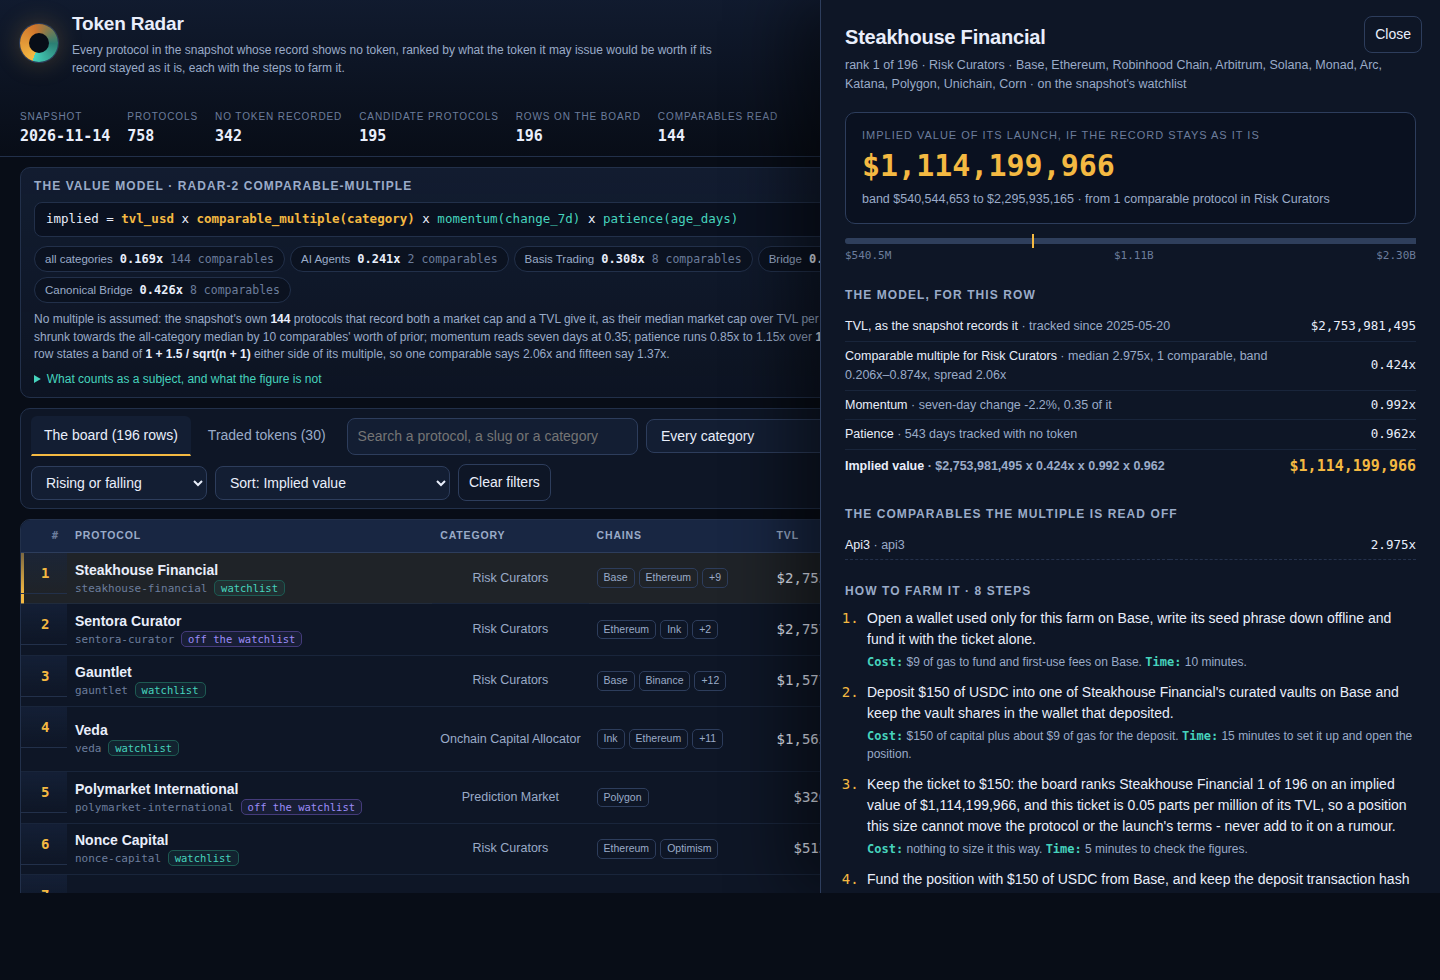
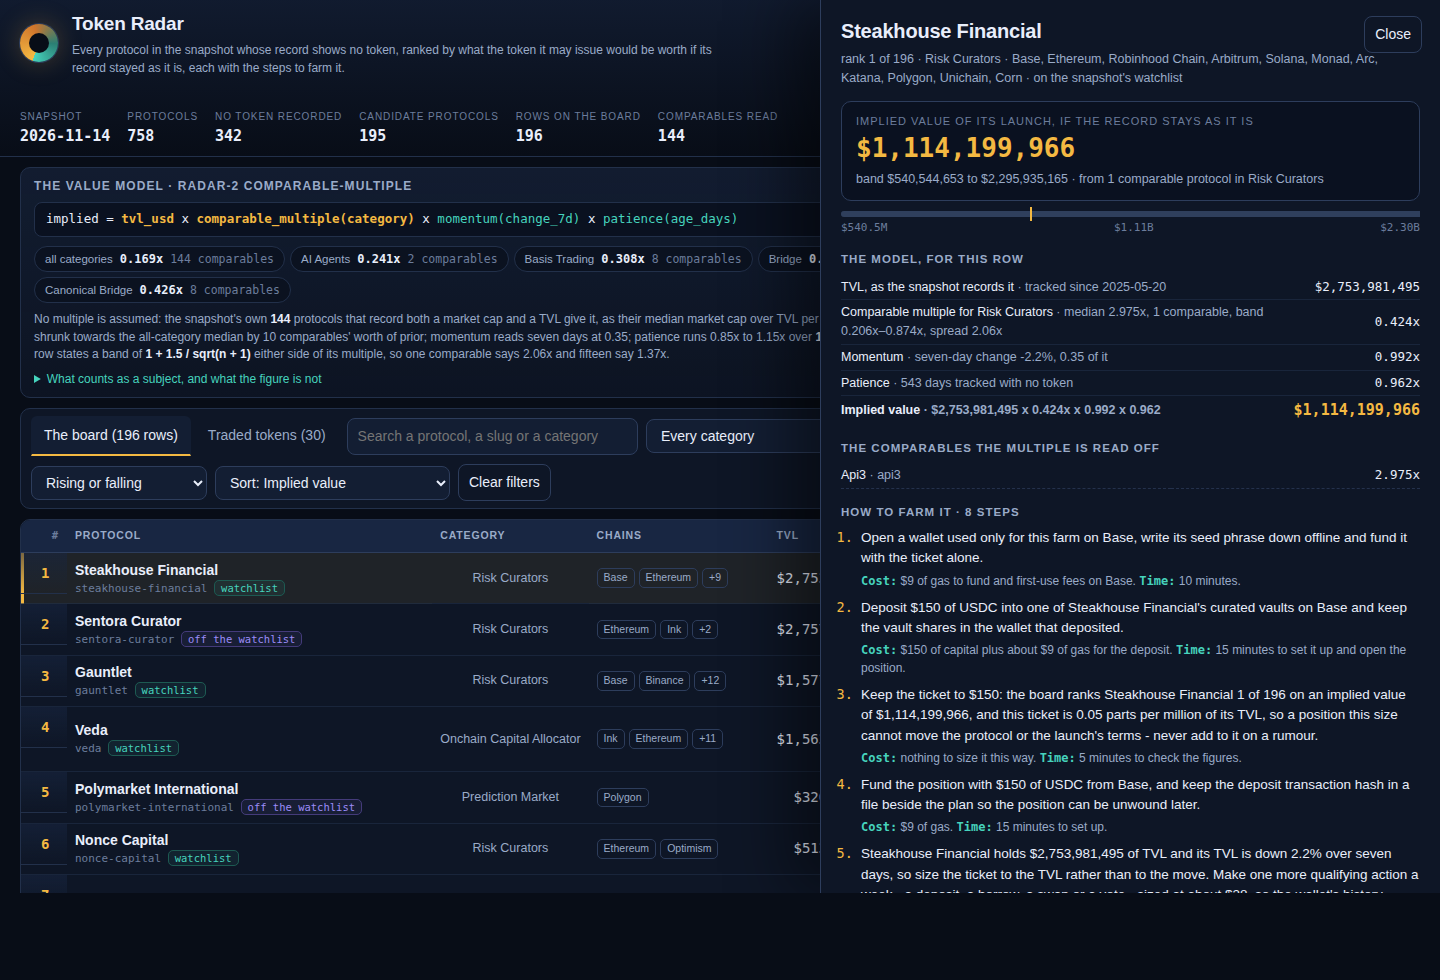
plan step that sizes the ticket against the protocol's own figures; tighter board and drawer

diff --git a/dashboard/app.css b/dashboard/app.css
@@ -199,40 +199,40 @@ td.comp span { display: block; color: var(--dim-2); font-size: 10.5px; }
   position: fixed; top: 0; right: 0; bottom: 0; width: min(620px, 92vw); z-index: 10;
   background: var(--panel); border-left: 1px solid var(--line-2);
   box-shadow: -30px 0 60px rgba(0, 0, 0, 0.45);
-  overflow-y: auto; padding: 22px 24px 40px;
+  overflow-y: auto; padding: 16px 20px 30px;
 }
 .drawer[hidden] { display: none; }
 .drawer .close { position: absolute; top: 16px; right: 18px; }
 .drawer h2 { font-size: 20px; }
 .drawer .sub { color: var(--dim); font-size: 12.5px; margin: 4px 0 0; }
-.drawer .hero { margin: 18px 0 6px; padding: 14px 16px; border: 1px solid var(--line-2); border-radius: 10px; background: #0a1120; }
-.drawer .hero .big { font-family: var(--mono); font-size: 30px; color: var(--amber); font-weight: 600; }
+.drawer .hero { margin: 13px 0 5px; padding: 11px 14px; border: 1px solid var(--line-2); border-radius: 10px; background: #0a1120; }
+.drawer .hero .big { font-family: var(--mono); font-size: 26px; color: var(--amber); font-weight: 600; }
 .drawer .hero .cap { color: var(--dim-2); font-size: 11px; text-transform: uppercase; letter-spacing: 0.09em; }
 .drawer .hero .rng { color: var(--dim); font-size: 12.5px; margin-top: 2px; }
 
-.rail { height: 6px; border-radius: 3px; background: #1b2438; margin: 14px 0 4px; position: relative; }
+.rail { height: 6px; border-radius: 3px; background: #1b2438; margin: 10px 0 3px; position: relative; }
 .rail .lo, .rail .hi { position: absolute; top: 0; bottom: 0; }
 .rail .lo { background: #2f3f5c; border-radius: 3px 0 0 3px; }
 .rail .hi { background: #2f3f5c; border-radius: 0 3px 3px 0; }
 .rail .at { position: absolute; top: -4px; width: 2px; height: 14px; background: var(--amber); }
 .rail-labels { display: flex; justify-content: space-between; color: var(--dim-2); font-size: 11px; font-family: var(--mono); }
 
-.drawer h3 { font-size: 12px; text-transform: uppercase; letter-spacing: 0.09em; color: var(--dim); margin: 22px 0 8px; }
+.drawer h3 { font-size: 11.5px; text-transform: uppercase; letter-spacing: 0.09em; color: var(--dim); margin: 15px 0 6px; }
 
 .factors { width: 100%; font-size: 12.5px; }
-.factors td { padding: 5px 0; border-bottom: 1px dashed rgba(45, 61, 92, 0.7); }
+.factors td { padding: 3px 0; border-bottom: 1px dashed rgba(45, 61, 92, 0.7); }
 .factors td:last-child { text-align: right; font-family: var(--mono); }
 .factors .m { color: var(--dim); }
 .factors tr.sum td { border-bottom: none; color: var(--ink); font-weight: 600; }
 .factors tr.sum td:last-child { color: var(--amber); font-size: 15px; }
 
-ol.plan { margin: 0; padding-left: 22px; }
-ol.plan li { margin-bottom: 11px; }
+ol.plan { margin: 0; padding-left: 20px; font-size: 13.5px; }
+ol.plan li { margin-bottom: 7px; }
 ol.plan li::marker { color: var(--amber); font-family: var(--mono); }
 ol.plan .cost { display: block; margin-top: 3px; color: var(--dim); font-size: 12px; }
 ol.plan .cost b { color: var(--teal); font-weight: 600; font-family: var(--mono); }
 
-.caveat { margin-top: 20px; padding: 11px 13px; border-left: 2px solid var(--amber-dim); background: rgba(244, 185, 66, 0.05); color: var(--dim); font-size: 12px; border-radius: 0 6px 6px 0; }
+.caveat { margin-top: 14px; padding: 9px 11px; border-left: 2px solid var(--amber-dim); background: rgba(244, 185, 66, 0.05); color: var(--dim); font-size: 12px; border-radius: 0 6px 6px 0; }
 
 /* ---------------------------------------------------------------- traded view */
 
